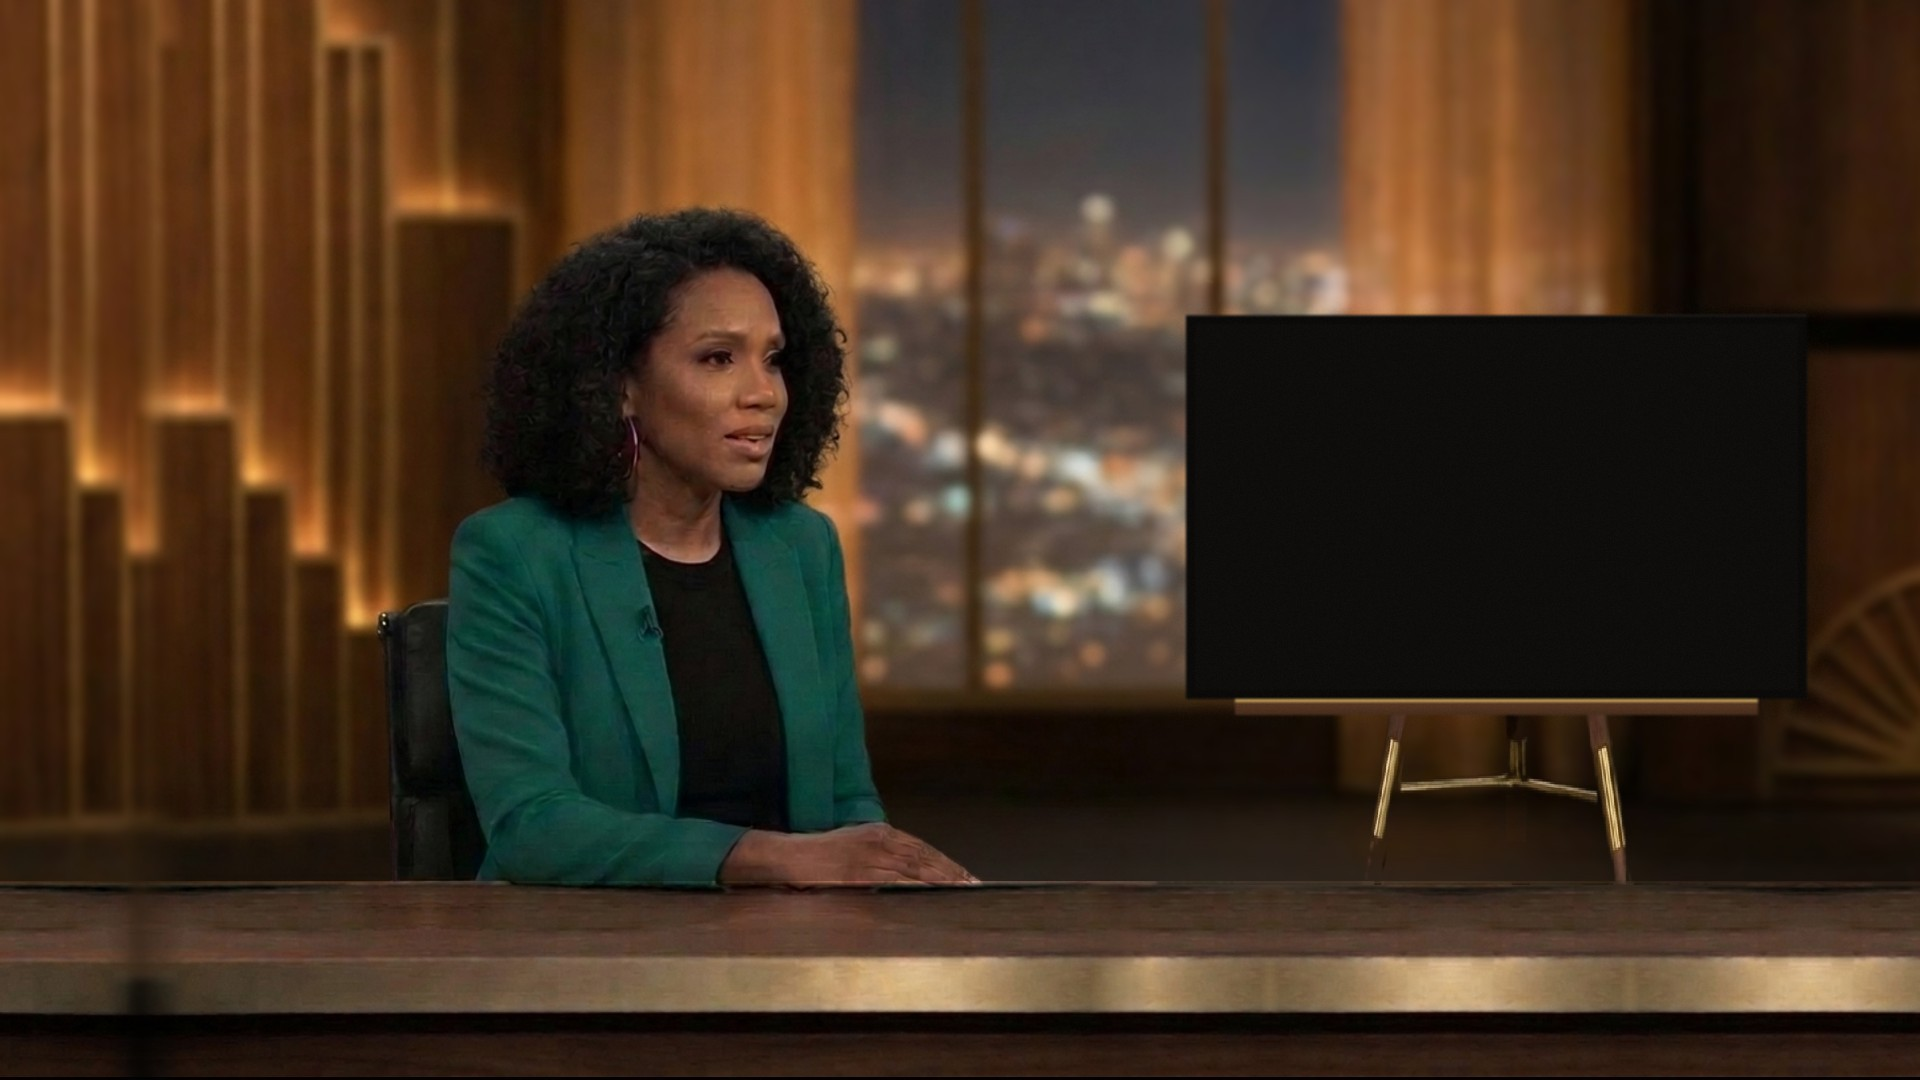
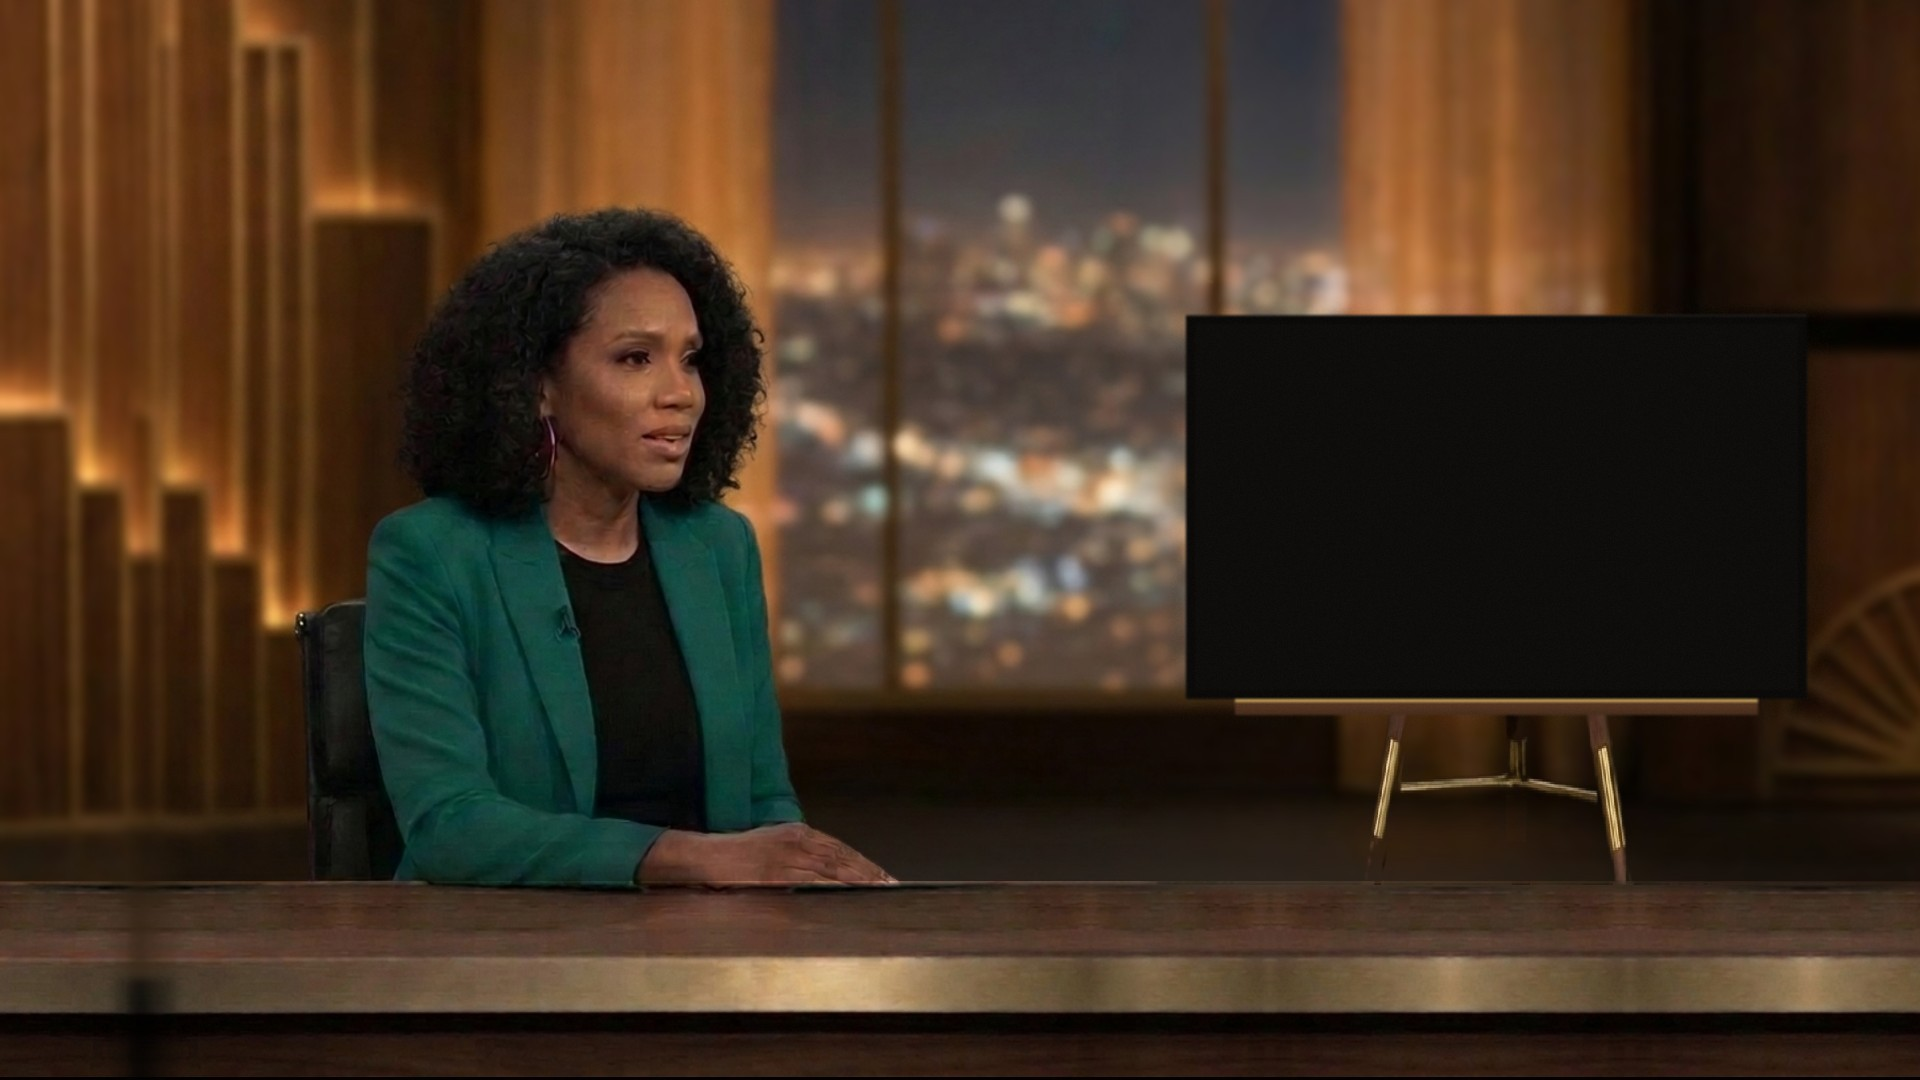
fix: Jada sits a little further left, about 30% across the frame
Claude-Session: https://claude.ai/code/session_01GSFhiV3Ep34znZMVb7cbqT

Changed region(s): [[0.0625, 0.0, 0.625, 0.8556], [0.3438, 0.8861, 1.0, 0.9472], [0.3125, 0.8861, 0.3438, 0.9167]]

diff --git a/apps/tv-show-live/page/gilded.css b/apps/tv-show-live/page/gilded.css
@@ -229,7 +229,7 @@ button { font: inherit; }
 .gr-set { position: absolute; inset: 0; transform-origin: 50% 50%; }
 /* Cuts, not zooms: a studio camera is either on its shot or not. */
 /* Jada from the chest up; the TV's edge stays in frame (a video off screen is not sent). */
-.gr-program.is-host .gr-set { transform: scale(1.5); transform-origin: 25% 35%; }
+.gr-program.is-host .gr-set { transform: scale(1.5); transform-origin: 15% 35%; }
 .gr-program.is-tv .gr-set { transform: scale(1.9); transform-origin: 96.95% 52.22%; }
 .gr-wall { position: absolute; inset: 0; width: 100%; height: 100%; object-fit: fill; }
 
@@ -283,7 +283,7 @@ button { font: inherit; }
 .gr-program.is-trailer .gr-host { left: auto; top: auto; right: 2%; bottom: 10.5%; width: 14%; height: auto; aspect-ratio: 1; z-index: 16;
   -webkit-mask-image: none; mask-image: none; opacity: 1; overflow: hidden; border-radius: .7cqw; background: #0c0a07;
   box-shadow: 0 .8cqw 2.4cqw rgba(0, 0, 0, .7), 0 0 0 .15cqw rgba(216, 177, 92, .7); }
-.gr-program.is-trailer .gr-host .ll-face { transform: scale(1.85); transform-origin: 52% 40%; }
+.gr-program.is-trailer .gr-host .ll-face { transform: scale(1.85); transform-origin: 48% 40%; }
 .gr-program.is-trailer .gr-host::after { content: attr(data-label); position: absolute; left: 0; right: 0; bottom: 0; z-index: 2; padding: .25cqw .5cqw;
   font: 600 .7cqw/1.2 var(--nc-display); letter-spacing: .08em; text-transform: uppercase; color: var(--nc-ink); background: linear-gradient(0deg, rgba(10, 8, 5, .85), transparent); }
 
